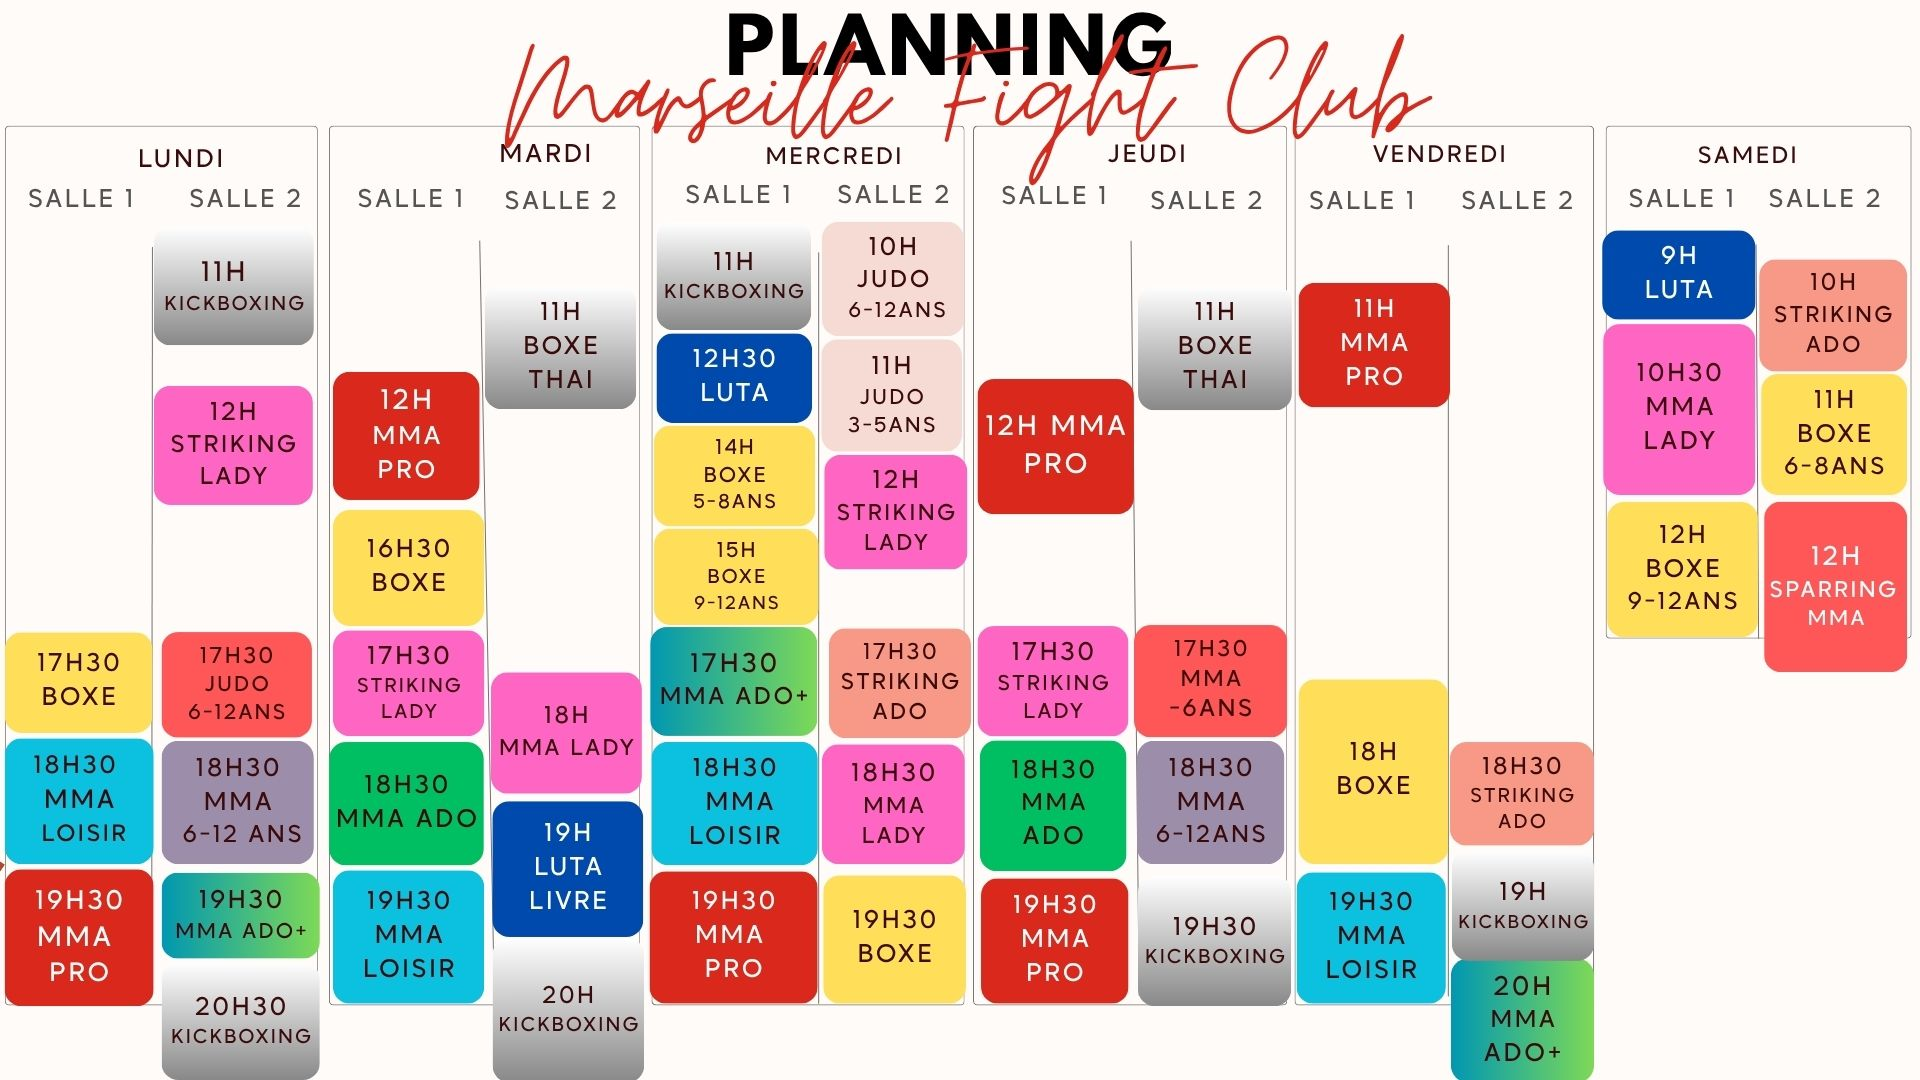
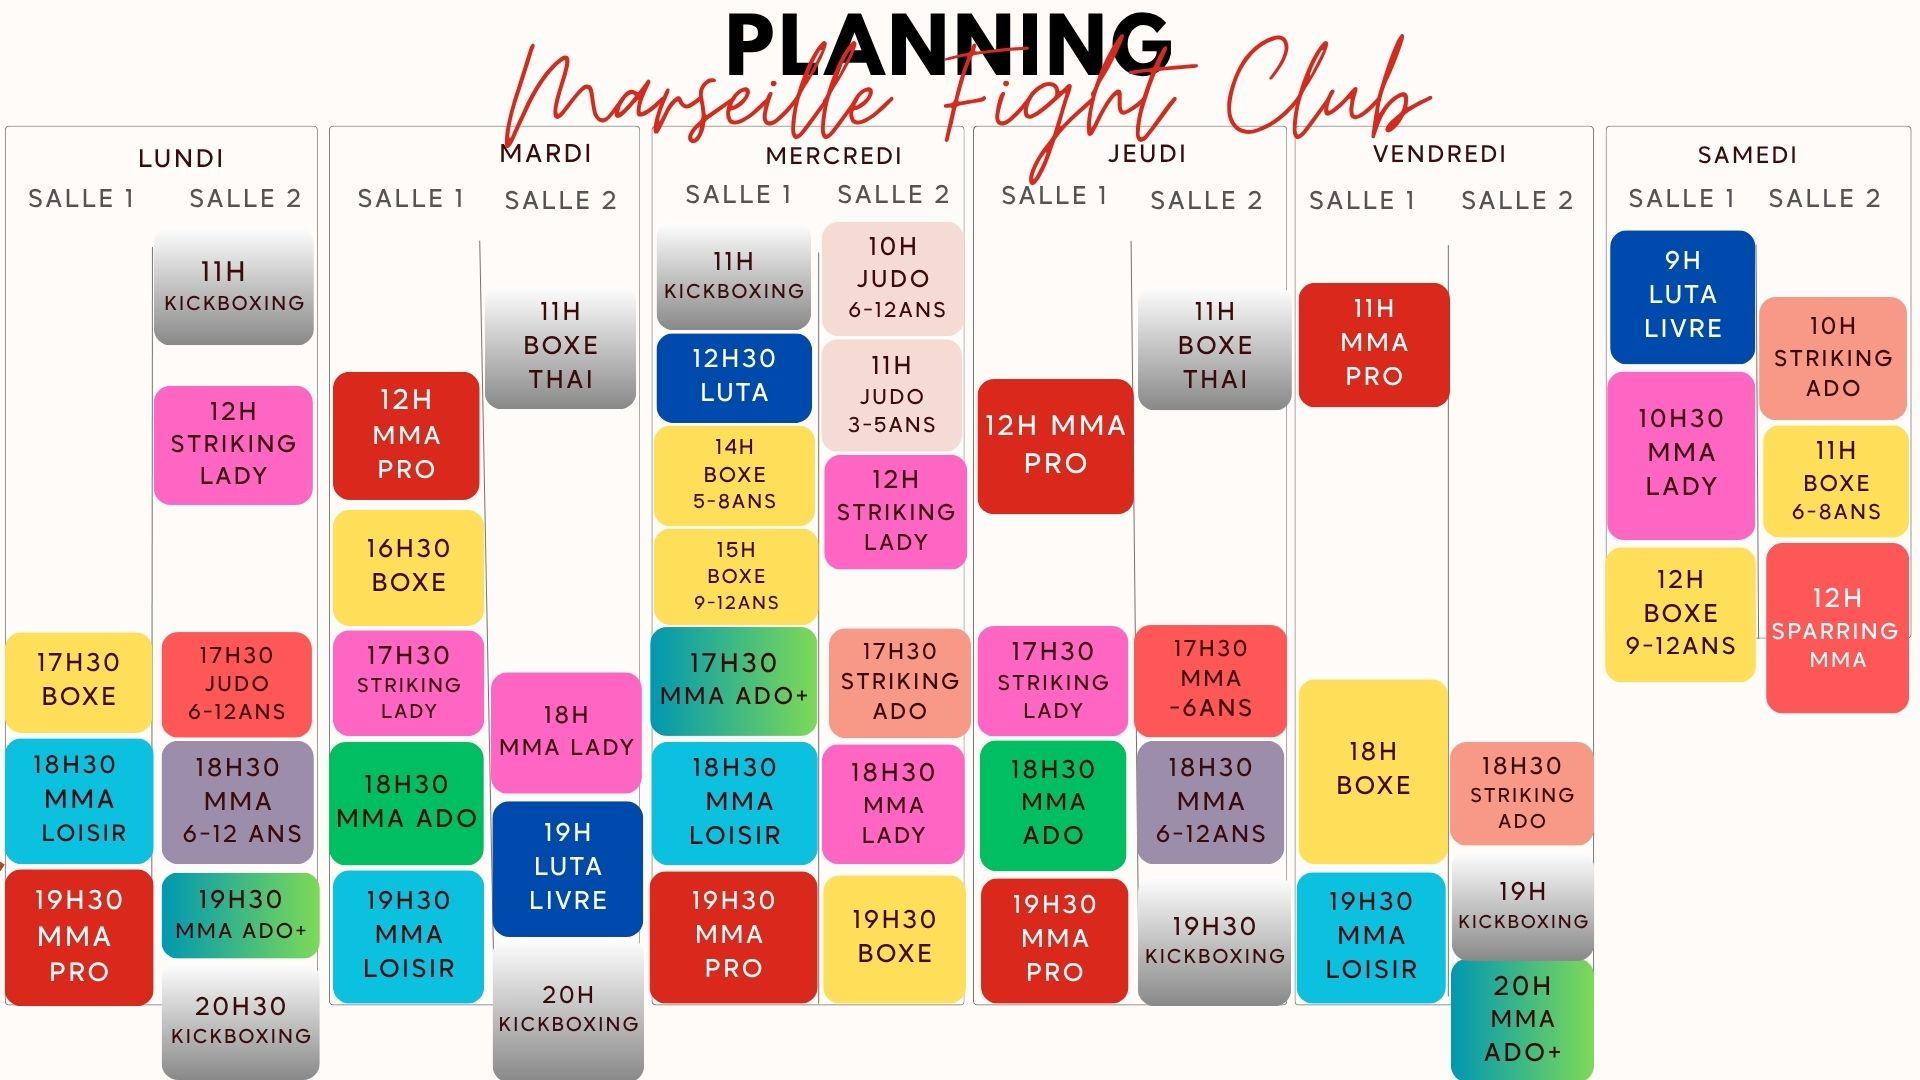
feat(press): article Ylies Djiroun PFL MENA Dubai - victoire TKO R1

Changed region(s): [[0.8125, 0.2139, 1.0, 0.6722]]

diff --git a/src/app/press/ylies-djiroun-pride-of-arabia-dubai/page.tsx b/src/app/press/ylies-djiroun-pride-of-arabia-dubai/page.tsx
@@ -3,9 +3,9 @@ import Link from "next/link";
 import { ArrowLeft } from "lucide-react";
 
 export const metadata = {
-  title: "Ylies \"Broly\" Djiroun Face au Champion en Titre à Dubaï — Le MFC au PFL MENA",
-  description: "Ylies Djiroun affronte le champion Salah Eddine Hamli au PFL MENA à Dubaï. Analyse du combat, portrait de Broly et contexte de l'événement.",
-  keywords: "Ylies Djiroun, Broly, PFL MENA, Salah Eddine Hamli, MMA Dubaï, Coca-Cola Arena, Marseille Fight Club",
+  title: "Exploit à Dubaï : Ylies 'Broly' Djiroun Terrasse le Champion Invaincu au Premier Round ! | Marseille Fight Club",
+  description: "Retour sur la victoire historique d'Ylies 'Broly' Djiroun par TKO au premier round face au champion invaincu Salah Eddine Hamli lors du PFL MENA à la Coca-Cola Arena de Dubaï.",
+  keywords: "Ylies Djiroun, Broly, PFL MENA, Victoire, TKO, Premier Round, MMA Dubaï, Coca-Cola Arena, Marseille Fight Club, Jean-Michel Foissard",
 };
 
 export default function ArticlePage() {
@@ -22,16 +22,17 @@ export default function ArticlePage() {
         </div>
 
         {/* Header Image */}
-        <div className="relative w-full aspect-video md:aspect-21/9 rounded-xl overflow-hidden mb-12 border border-white/5 bg-mfc-gray/50 group">
-          <a href="/images/press/ylies-victory.jpg" target="_blank" rel="noopener noreferrer" className="block w-full h-full">
-            <Image 
-              src="/images/press/ylies-victory.jpg" 
-              alt="Ylies Djiroun" 
-              fill
-              className="object-cover transition-transform duration-500 group-hover:scale-105"
-            />
-          </a>
-          <div className="absolute inset-0 bg-linear-to-t from-mfc-dark via-transparent to-transparent pointer-events-none"></div>
+        <div className="flex justify-center mb-12">
+          <div className="relative w-full max-w-sm aspect-[3/4] rounded-xl overflow-hidden border border-white/5 bg-mfc-gray/50 group shadow-2xl">
+            <a href="/images/press/ylies-victoire-pfl.jpg" target="_blank" rel="noopener noreferrer" className="block w-full h-full">
+              <Image 
+                src="/images/press/ylies-victoire-pfl.jpg" 
+                alt="Ylies Djiroun Victoire PFL MENA 24 Mai 2026" 
+                fill
+                className="object-cover transition-transform duration-500 group-hover:scale-105"
+              />
+            </a>
+          </div>
         </div>
 
         {/* Article Header */}
@@ -41,12 +42,12 @@ export default function ArticlePage() {
             <span className="px-3 py-1 bg-white/10 text-white text-[10px] font-bold uppercase tracking-widest rounded-sm backdrop-blur-sm">Co-Main Event</span>
           </div>
           <h1 className="text-4xl md:text-6xl font-oswald font-bold text-white uppercase tracking-tight leading-tight mb-6">
-            Ylies "Broly" Djiroun Face au Champion en Titre à Dubaï — Le MFC en Co-Main Event du PFL MENA
+            Exploit à Dubaï : Ylies "Broly" Djiroun Terrasse le Champion Invaincu au Premier Round !
           </h1>
           <div className="flex items-center gap-4 text-gray-500 font-inter text-sm uppercase tracking-widest">
-            <span>25 Avril 2026</span>
+            <span>25 Mai 2026</span>
             <span className="w-4 h-px bg-white/20"></span>
-            <span>Par la rédaction MFC</span>
+            <span>Par la rédaction Marseille Fight Club</span>
           </div>
         </header>
 
@@ -54,16 +55,19 @@ export default function ArticlePage() {
         <article className="prose prose-invert prose-lg max-w-none font-inter text-gray-300 leading-relaxed">
           
           <p className="lead text-xl text-white font-medium mb-12 border-l-4 border-mfc-red pl-6">
-            Le 24 mai 2026, la Coca-Cola Arena de Dubaï accueillera le coup d'envoi de la saison 2026 du PFL MENA, sous le titre "Pride of Arabia". Dans le co-main event de la soirée, Ylies "Broly" Djiroun, 24 victoires et 9 défaites au compteur, affrontera Salah Eddine "Supersalah" Hamli, invaincu en 11 combats, dans un quart de finale des poids légers. Un choc de génération, un choc de styles, et une affiche qui positionne Marseille au cœur d'un des tournois régionaux les plus suivis du MMA mondial.
+            Le MMA marseillais vient d'inscrire l'une de ses plus belles pages d'histoire. Ce dimanche 24 mai, sous les projecteurs de la Coca-Cola Arena de Dubaï, Ylies "Broly" Djiroun a réalisé un exploit retentissant en co-main event du PFL MENA : Pride of Arabia. Donné outsider face au champion en titre invaincu, le redoutable Marocain Salah Eddine "Supersalah" Hamli, le guerrier marseillais a pulvérisé tous les pronostics en s'imposant de manière spectaculaire dès le premier round. Une victoire éclair par TKO qui a fait vibrer les 17 000 spectateurs présents.
           </p>
 
           <h2 className="text-3xl font-oswald font-bold text-white uppercase mt-16 mb-8 tracking-wider">
-            Qui est Ylies Djiroun ?
+            Un choc attendu à Dubaï
           </h2>
           <p>
-            Issu des quartiers nord de Marseille, Ylies Djiroun a construit sa carrière dans la discrétion avant de s'imposer progressivement sur la scène internationale. Il a commencé le sport de combat en 2009 dans un club de sambo à Marseille, et depuis, il n'a jamais vraiment arrêté d'apprendre. Judo, karaté, Muay Thai, taekwondo, kickboxing — il a traversé de nombreuses disciplines avant de les fondre dans une pratique du MMA à la fois complète et personnelle.
+            L'enjeu de cette soirée baptisée "Pride of Arabia" était colossal. Pour la première fois depuis le début du conflit régional, la prestigieuse ligue PFL (Professional Fighters League) organisait son événement MENA à Dubaï plutôt qu'en Arabie Saoudite. Dans une salle comble survoltée, le champion invaincu des poids légers Salah Eddine Hamli (11 victoires, 0 défaite) défendait son statut dans ce quart de finale du tournoi. S'entraînant en Espagne aux côtés du champion UFC Ilia Topuria, Hamli était le grand favori : jeune (27 ans), explosif, et auréolé de sa couronne PFL MENA 2025 conquise en décembre dernier.
           </p>
-          
+          <p>
+            Face à lui, Ylies "Broly" Djiroun, fierté des quartiers nord de Marseille, arrivait dans la cage avec un bilan de 24 victoires pour 9 défaites et une expérience incomparable : PFL en 2019, BRAVE CF, ARES FC, et tant d'autres organisations depuis 2011. À 34 ans, il représentait l'expérience face à la fougue du champion invaincu.
+          </p>
+
           <div className="grid grid-cols-1 md:grid-cols-2 gap-12 my-12 items-center">
             <div className="relative aspect-square rounded-xl overflow-hidden border border-white/10 group">
               <a href="/images/press/ylies-portrait.jpg" target="_blank" rel="noopener noreferrer" className="block w-full h-full">
@@ -76,37 +80,48 @@ export default function ArticlePage() {
               </a>
             </div>
             <div>
+              <h2 className="text-3xl font-oswald font-bold text-white uppercase mb-8 tracking-wider">
+                La force tranquille
+              </h2>
               <p>
-                Jean-Michel Foissard, fondateur du Marseille Fight Club, lui a tout apporté, autant sur le plan de l'entraînement physique que sur le plan mental — c'est Djiroun lui-même qui le dit. Ce lien avec le MFC est solide, ancré dans les années, et il dit beaucoup sur la manière dont le club forme ses combattants : pas dans la précipitation, pas dans la mise en scène, mais dans la durée et l'honnêteté du travail quotidien.
-              </p>
-              <p className="mt-4">
-                Son surnom, "Broly" ? Il vient de sa passion pour les mangas, Dragon Ball en tête. Pas de mystère, pas de construction marketing — juste un combattant qui assume ses influences et qui s'est construit comme ça.
+                Surnommé "Broly" en référence à sa passion pour Dragon Ball, Ylies incarne les valeurs du Marseille Fight Club : respect, travail et persévérance. Préparé dans la discrétion par son coach de longue date Jean-Michel Foissard, loin du buzz et des provocations, le combattant marseillais avait un plan précis.
               </p>
             </div>
           </div>
 
+          <h2 className="text-3xl font-oswald font-bold text-white uppercase mt-16 mb-8 tracking-wider">
+            Le film du combat
+          </h2>
           <p>
-            Au fil de sa carrière, il a remporté deux titres de champion d'Europe et accumulé une expérience rare pour un combattant français de sa génération, en évoluant dans plusieurs organisations à travers le monde — dont le PFL, Brave CF, et ARES FC. Avec 24 victoires et 9 défaites, il entre dans ce quart de finale avec davantage d'expérience en cage que la quasi-totalité des combattants présents sur cette carte.
+            Dès les premières secondes, Hamli tente d'imposer son rythme physique en avançant au centre de la cage. Il envoie de lourdes frappes pour intimider le Marseillais. Mais Djiroun reste d'un calme olympien, très mobile sur ses appuis, esquivant les attaques avec fluidité et répliquant par des coups précis qui freinent l'ardeur du champion.
+          </p>
+          <p>
+            Sentant qu'il ne parvient pas à toucher Ylies debout, Hamli commet l'erreur tactique du combat. Il plonge brusquement pour tenter une projection au sol. Anticipant parfaitement le mouvement avec un sprawl impérial, Djiroun bloque la tentative, pivote avec une rapidité déconcertante et passe dans le dos d'un Hamli complètement dépassé.
+          </p>
+          <p>
+            Le Marseillais le plaque instantanément au sol et déclenche une avalanche de frappes lourdes et précises en ground-and-pound. Hamli, incapable de se défendre, subit une pluie de coups chirurgicaux. L'arbitre intervient pour arrêter le combat.
+          </p>
+          <p className="text-xl text-white font-bold text-center bg-mfc-red/10 border border-mfc-red/30 py-4 my-8 rounded-lg">
+            Victoire par TKO en 4 minutes et 20 secondes du premier round.
+          </p>
+          <p>
+            La Coca-Cola Arena explose. Marseille vient de faire tomber le roi invaincu de la catégorie.
           </p>
 
           <h2 className="text-3xl font-oswald font-bold text-white uppercase mt-16 mb-8 tracking-wider">
-            En face : le champion en titre
+            Pourquoi cette victoire compte
           </h2>
           <p>
-            L'adversaire ne sera pas de tout repos. Salah Eddine "Supersalah" Hamli est le champion en titre du PFL MENA dans la catégorie poids légers, titre qu'il a décroché en décembre 2025 à Al Khobar, en Arabie saoudite, devenant au passage le premier Marocain à remporter ce titre dans le circuit. Sa finale de championnat contre l'Irakien Mohammad Fahmi s'est conclue par une soumission au D'arce choke au deuxième round — propre, dominante, sans discussion possible.
+            <strong className="text-white">L'expérience a parlé :</strong> Face à un champion de 27 ans, les 34 ans d'Ylies et ses 33 combats professionnels ont fait la différence. Il a su rester patient et forcer le TKO au moment idéal.
           </p>
           <p>
-            Hamli s'entraîne au Climent Club à Alicante, en Espagne, aux côtés de la star des poids plumes Ilia Topuria. Ce détail n'est pas anodin : le niveau de sparring et les méthodes de préparation auxquels il a accès chaque jour sont de premier plan. À 27 ans, il affiche un palmarès vierge de défaites et s'est imposé comme l'un des finisseurs les plus dangereux de la région, avec un arsenal de soumissions redoutable et une capacité à contrôler les combats.
+            <strong className="text-white">Une tactique parfaite :</strong> En étudiant la tendance de Hamli à chercher le takedown quand son striking ne fonctionne pas, le staff marseillais a permis à Ylies d'anticiper l'action décisive.
           </p>
           <p>
-            Il a notamment soumis Mohsen Mohammadseifi — cinq fois champion du monde de Wushu Sanda — dès le premier round par étranglement arrière. Djiroun sait ce qui l'attend.
+            <strong className="text-white">Un symbole pour le club :</strong> Cette victoire propulse le Marseille Fight Club sur la scène internationale. Fondé il y a près de dix ans dans le 10ème arrondissement, le club prouve qu'il forme des combattants capables de briller au plus haut niveau.
           </p>
-
-          <h2 className="text-3xl font-oswald font-bold text-white uppercase mt-16 mb-8 tracking-wider">
-            Un contexte de soirée particulier
-          </h2>
           <p>
-            C'est la première fois que le PFL MENA organise un événement hors d'Arabie saoudite. Dubaï représente un choix stratégique pour la ligue, et le poids symbolique de ce déplacement est réel. Comme l'a déclaré Jérôme Mazet, directeur général du PFL MENA : "Dubaï est un marché clé pour le PFL MENA et un hub mondial pour le sport et le entertainment, ce qui en fait le cadre idéal pour notre ouverture de saison 2026."
+            <strong className="text-white">Un représentant de Marseille :</strong> Issu des quartiers nord, Djiroun incarne cette génération de combattants marseillais qui s'imposent mondialement. Son exploit résonne au-delà du sport : c'est la victoire du travail et de la persévérance.
           </p>
 
           <div className="relative w-full aspect-video rounded-xl my-12 overflow-hidden border border-white/10 group">
@@ -120,30 +135,18 @@ export default function ArticlePage() {
             </a>
           </div>
 
-          <p>
-            La Coca-Cola Arena, située dans le quartier City Walk, peut accueillir jusqu'à 17 000 spectateurs — une infrastructure à la hauteur des ambitions de la soirée. L'événement sera diffusé en direct sur STARZPLAY dans la région MENA, à partir de 17h heure du Golfe.
-          </p>
-          <p>
-            La carte est dense : en plus du co-main event Hamli vs Djiroun, la soirée mettra en avant la toute première apparition de Zamzam Al Hammadi, 18 ans, prometteuse émirate auréolée de titres mondiaux en MMA et en jiu-jitsu brésilien. L'événement porte clairement une ambition : faire de Dubaï un rendez-vous incontournable sur la carte mondiale du MMA.
-          </p>
-
           <h2 className="text-3xl font-oswald font-bold text-white uppercase mt-16 mb-8 tracking-wider">
-            Ce combat, vu d'ici
+            La suite : cap sur la demi-finale
           </h2>
           <p>
-            Sur le papier, Djiroun est l'outsider. Hamli est invaincu, champion en titre, en pleine ascension, et l'affrontement se joue sur son terrain géographique — le circuit MENA qu'il a dominé de bout en bout la saison dernière. Mais les palmarès ne font pas les combats.
+            Ylies Djiroun est officiellement qualifié pour les demi-finales du tournoi PFL MENA des poids légers. Après avoir stoppé l'invincibilité du champion en titre, il devient un sérieux prétendant au titre et aux 100 000 dollars promis au vainqueur.
           </p>
           <p>
-            Ce que Djiroun apporte dans cette cage, c'est quelque chose qu'aucun bilan chiffré ne résume : une dizaine d'années de compétition internationale, des défaites digérées et transformées, une capacité à s'adapter qui ne s'achète pas. Il est décrit par les observateurs du circuit comme le test le plus sérieux qu'Hamli ait eu à affronter jusqu'ici — ce qui, au vu du niveau du champion, n'est pas une formule anodine.
-          </p>
-          <p>
-            Le MFC sera représenté au plus haut niveau ce soir-là. Pas dans un combat de remplissage, pas dans un préliminaire — en co-main event d'une soirée diffusée dans toute la région MENA, face à l'homme qui porte la ceinture. C'est là où on voulait être.
+            De retour à Marseille dès cette semaine, il reprendra l'entraînement au club avec la même humilité, prêt pour la suite de l'aventure. Son bilan professionnel s'établit désormais à 25 victoires pour 9 défaites.
           </p>
           <p className="font-bold text-white mt-8">
-            Le reste appartient au 24 mai.
+            En faisant tomber le champion invaincu au premier round, Ylies Djiroun a écrit l'une des plus belles pages de son histoire et celle du Marseille Fight Club. Tout Marseille est fier de toi, champion ! Le rendez-vous est pris pour les demi-finales, et l'aventure ne fait que commencer.
           </p>
-
-
 
         </article>
 

diff --git a/src/app/press/page.tsx b/src/app/press/page.tsx
@@ -8,20 +8,20 @@ import { useRef } from "react";
 export default function PressPage() {
   const articles = [
     {
-      id: "ylies-djiroun-pride-of-arabia-dubai",
-      title: "Ylies \"Broly\" Djiroun Face au Champion en Titre à Dubaï — Le MFC en Co-Main Event du PFL MENA",
-      excerpt: "Le 24 mai 2026, la Coca-Cola Arena accueillera Ylies Djiroun face au champion Salah Eddine Hamli. Un choc de styles et d'expérience pour le co-main event du PFL MENA.",
-      category: "PFL MENA",
-      date: "25 Avril 2026",
-      image: "/images/press/ylies-victory.jpg"
-    },
-    {
       id: "wilson-varela-vs-davy-gallon-hexagone-mma-44",
       title: "Wilson \"The Prototype\" Varela en Demi-Finale de l'Hexagone MMA 44 à Bordeaux",
       excerpt: "Le 29 mai 2026, l'Arkéa Arena accueillera Wilson Varela face au vétéran Davy Gallon. Le champion marseillais arrive dans la forme de sa vie pour ce choc au sommet.",
       category: "Hexagone MMA",
       date: "25 Avril 2026",
       image: "/images/press/varela-belt.png"
+    },
+    {
+      id: "ylies-djiroun-pride-of-arabia-dubai",
+      title: "Exploit à Dubaï : Ylies 'Broly' Djiroun Terrasse le Champion Invaincu au Premier Round !",
+      excerpt: "Victoire historique par TKO en 4 minutes et 20 secondes ! Ylies Djiroun a fait tomber le champion invaincu Salah Eddine Hamli dès le premier round du PFL MENA à la Coca-Cola Arena.",
+      category: "PFL MENA",
+      date: "25 Mai 2026",
+      image: "/images/press/ylies-victoire-pfl.jpg"
     },
     {
       id: "aymard-guih-vs-marian-ziolkowski-ksw-118",
